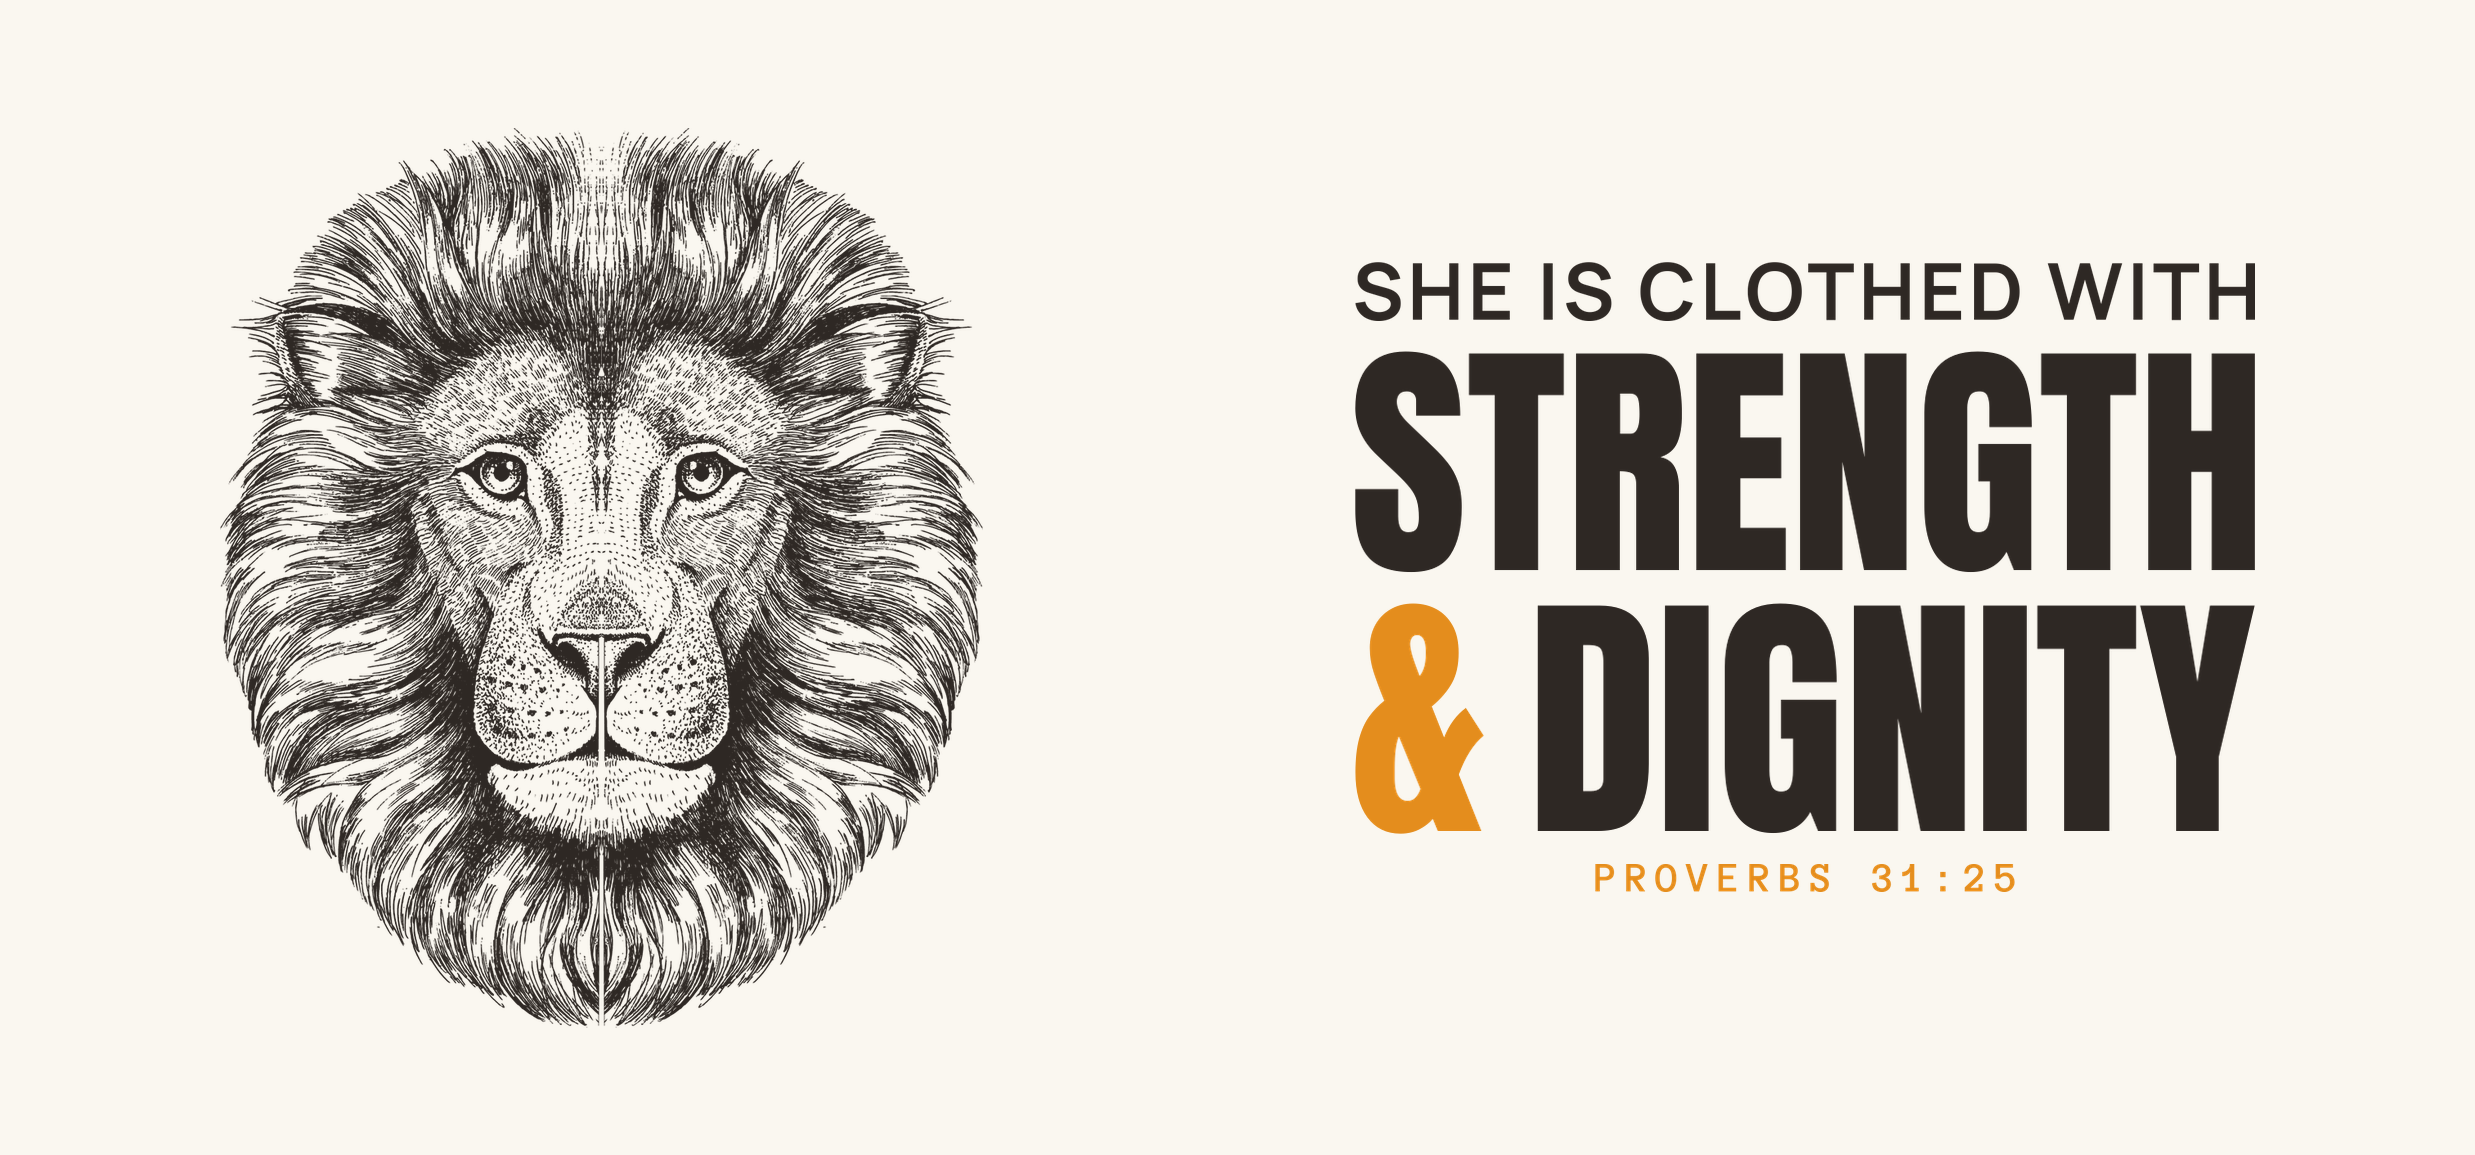
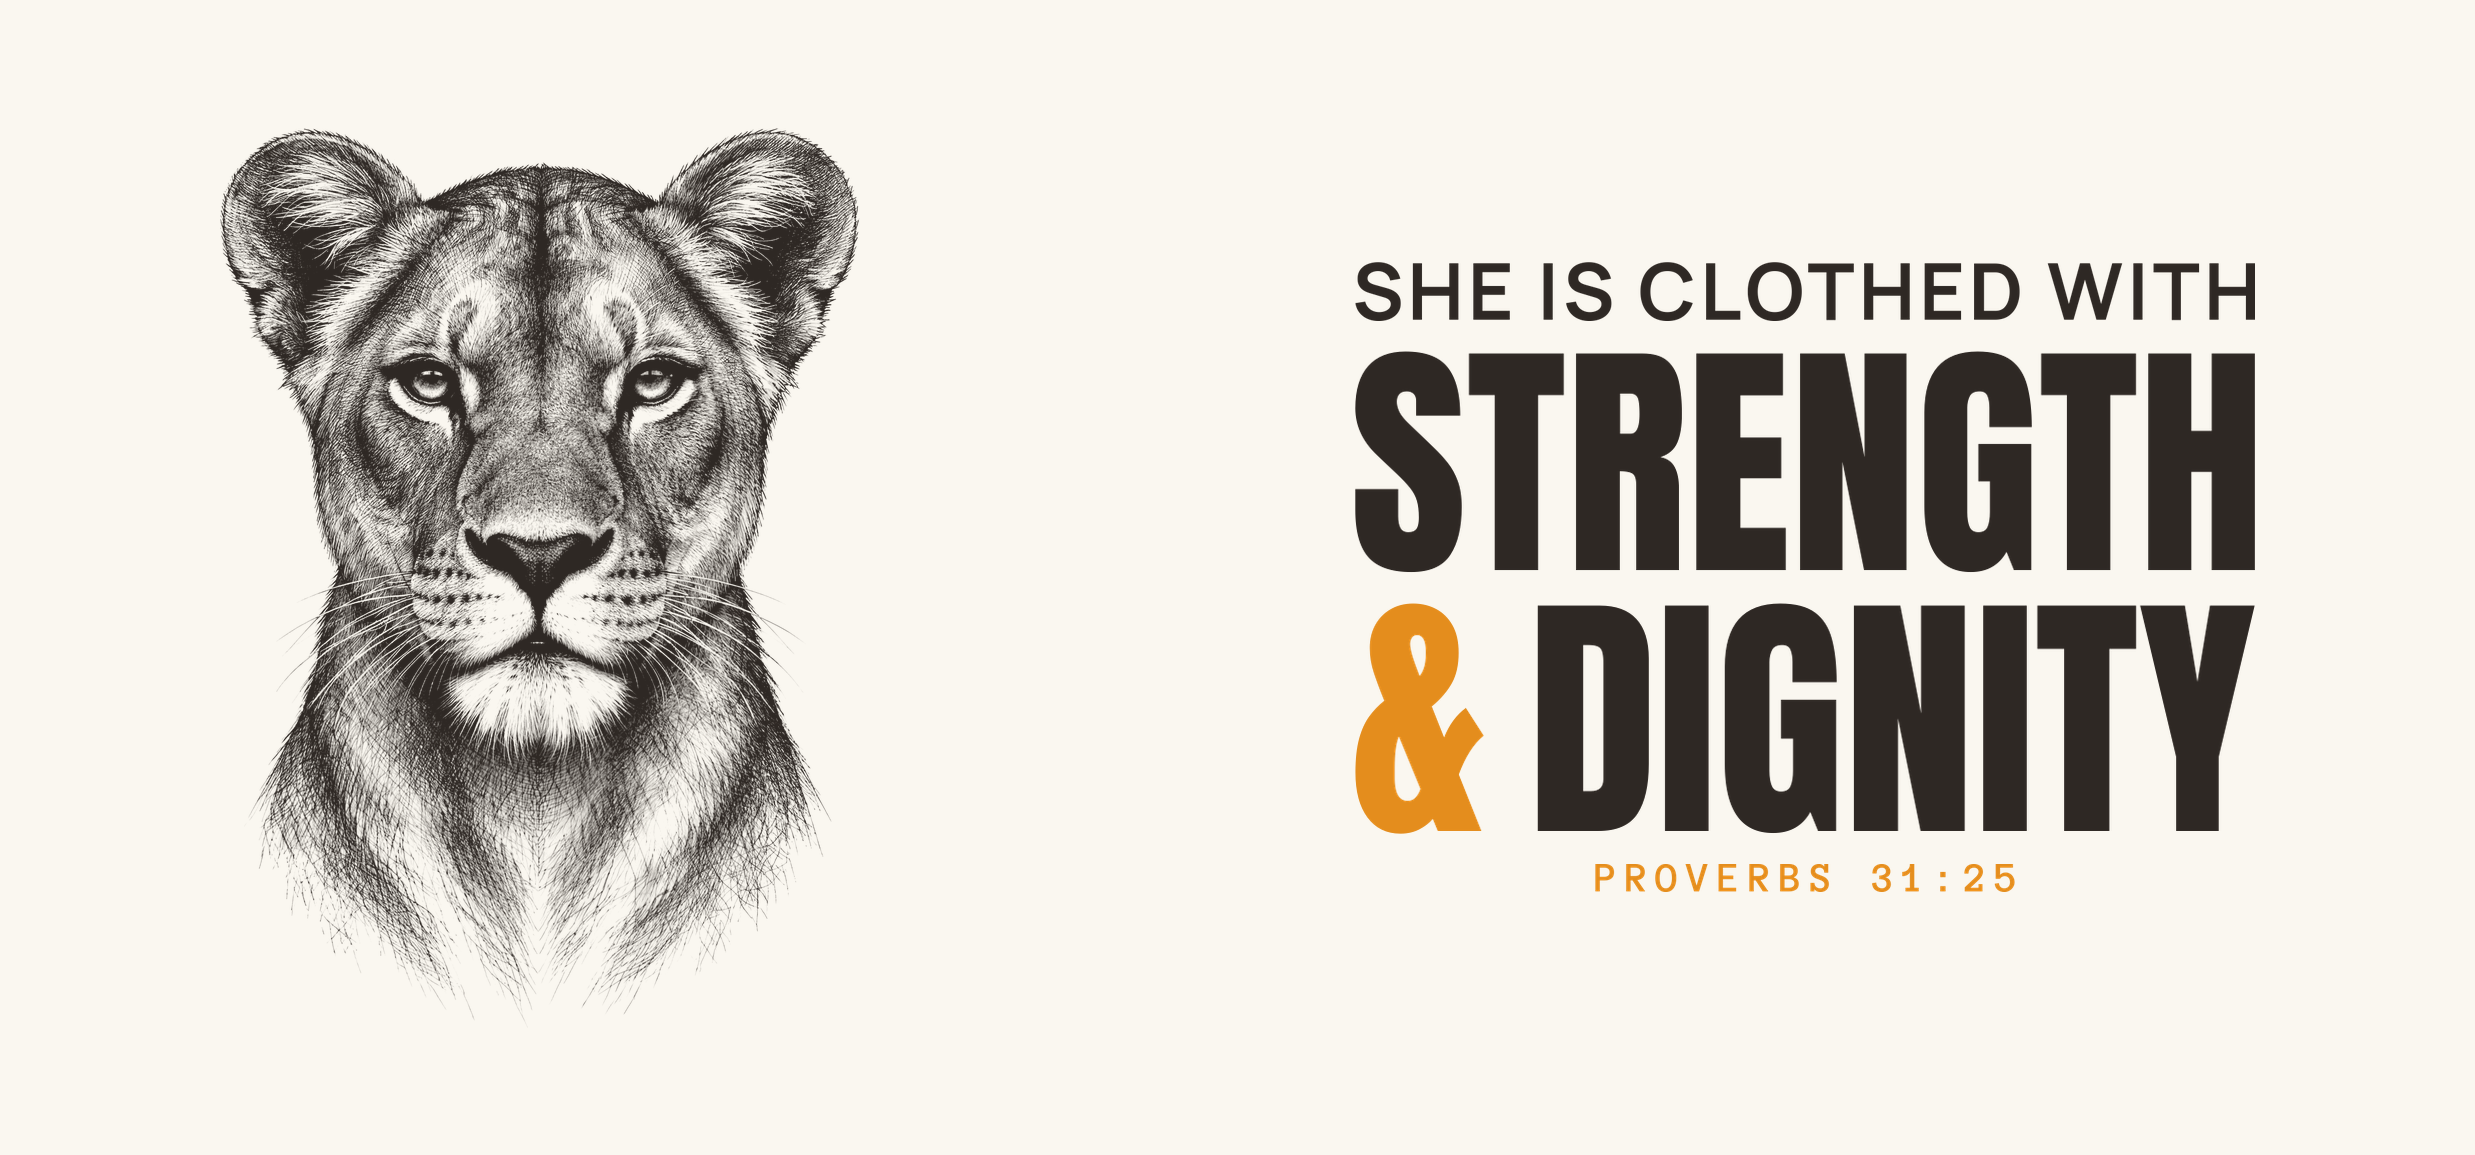
Store art: lioness and cub sketches, phone case fit
Claude-Session: https://claude.ai/code/session_01ULdKxc1MNGpenRnX9gqdsw

Changed region(s): [[0.0622, 0.0935, 0.4044, 0.9039]]

diff --git a/store-art/src/phone2.py b/store-art/src/phone2.py
@@ -1,0 +1,13 @@
+exec(open('designs.py').read().split("# 1 BOLD")[0])
+def phone(W=1320,H=2264):
+    c=NEWS.copy().resize((int(NEWS.width*H/NEWS.height),H)).crop((400,0,400+W,H)).convert('RGBA')
+    c=Image.blend(c,Image.new('RGBA',c.size,(0,0,0,255)),0.4)
+    r=ImageOps.grayscale(ROAR); roar=Image.merge('RGBA',(r,r,r,ROAR.getchannel('A'))); roar=fit_w(roar.crop(roar.getbbox()),1250)
+    c.alpha_composite(roar,(60,250))
+    t1=fit_w(T('LION',300,INK),760); y=1360
+    c.alpha_composite(t1,((W-t1.width)//2,y)); y+=t1.height+30
+    band=fit_w(Image.open(L+'12-black-tape-band-behind-company.png').convert('RGBA'),1250)
+    t2=fit_w(T('COMPANY',300,ORANGE),860)
+    c.alpha_composite(band,((W-band.width)//2,y-(band.height-t2.height)//2)); c.alpha_composite(t2,((W-t2.width)//2,y))
+    return c
+save('phone-collage',phone(),BLACK)

diff --git a/store-art/src/new.py b/store-art/src/new.py
@@ -1,0 +1,14 @@
+exec(open('designs.py').read().split("# 1 BOLD")[0])
+G='/home/claude/thelioncompany-redesign/store-art/gen/'
+def gm(n):
+    m=ink_mask(Image.open(G+n).convert('RGBA')).point(lambda v:max(0,int((v-25)*255/230))); return m.crop(m.getbbox())
+SK=gm('lioness-up.jpg')
+exec("def strength("+open('designs.py').read().split("def strength(")[1].split("# 11 Kids")[0])
+CUB=gm('cub-up.jpg')
+def little(ink=BLACK,acc=ORANGE,w=2600):
+    lion=fit_w(tint(CUB,ink),int(w*0.62))
+    t=fit_w(colorline([('LITTLE',ink),('LION',acc)],300),w)
+    v=fit_w(T("YOU ARE A LION'S CUB. GENESIS 49:9",80,ink,MONO,10),int(w*0.9))
+    return stack([lion,t,v],gap=70)
+save('kids-little-lion',little(),(255,255,255))
+save('kids-little-lion-dark',little(INK),BLACK)
